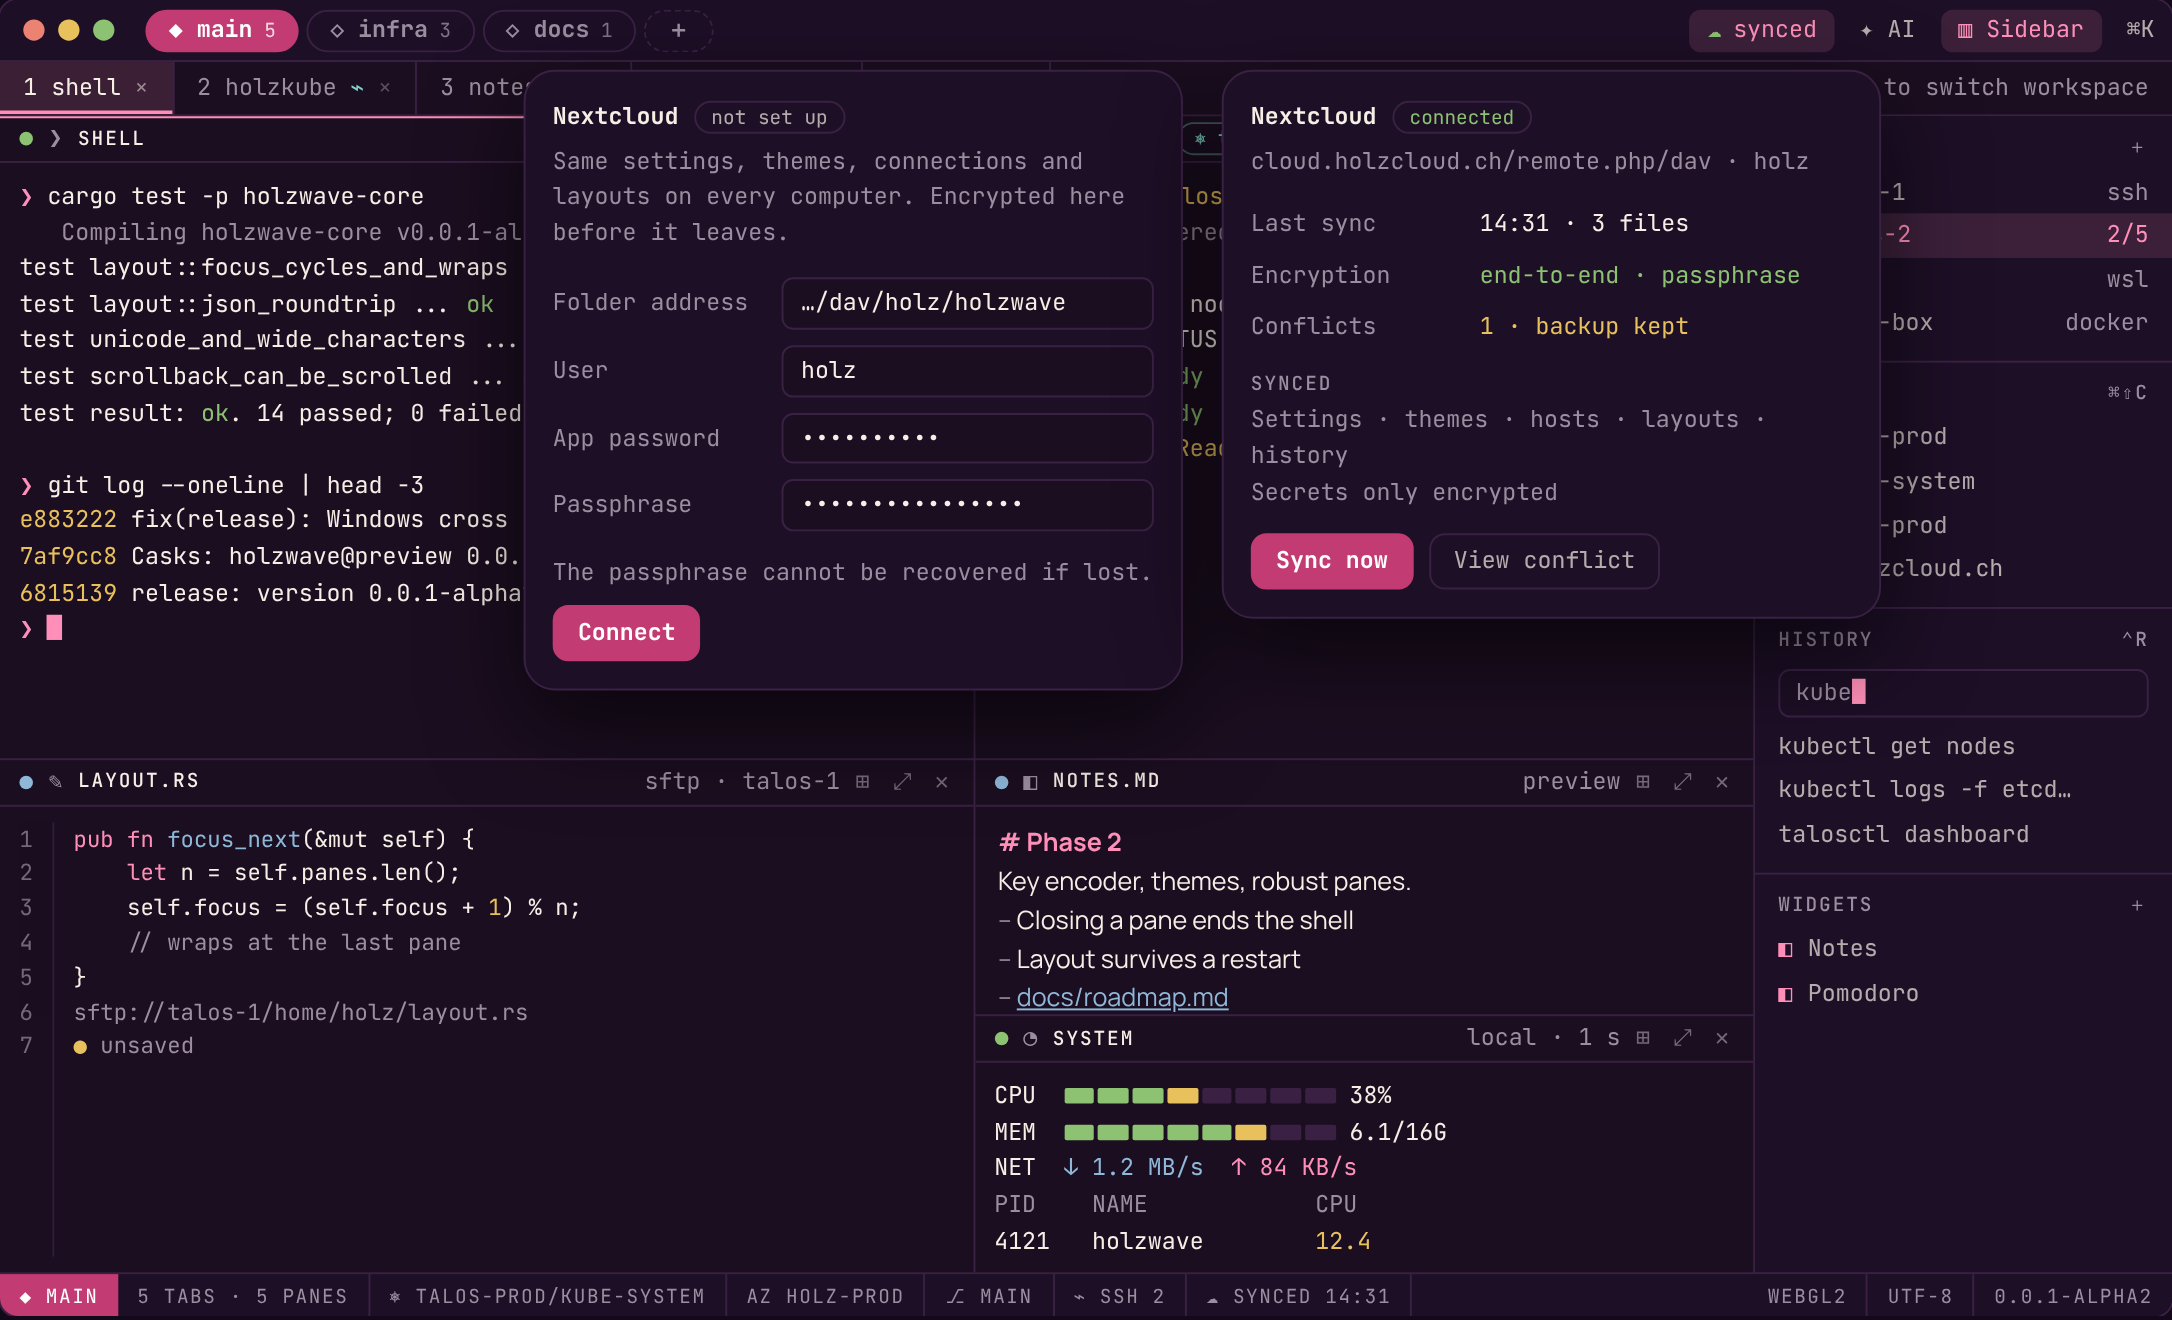
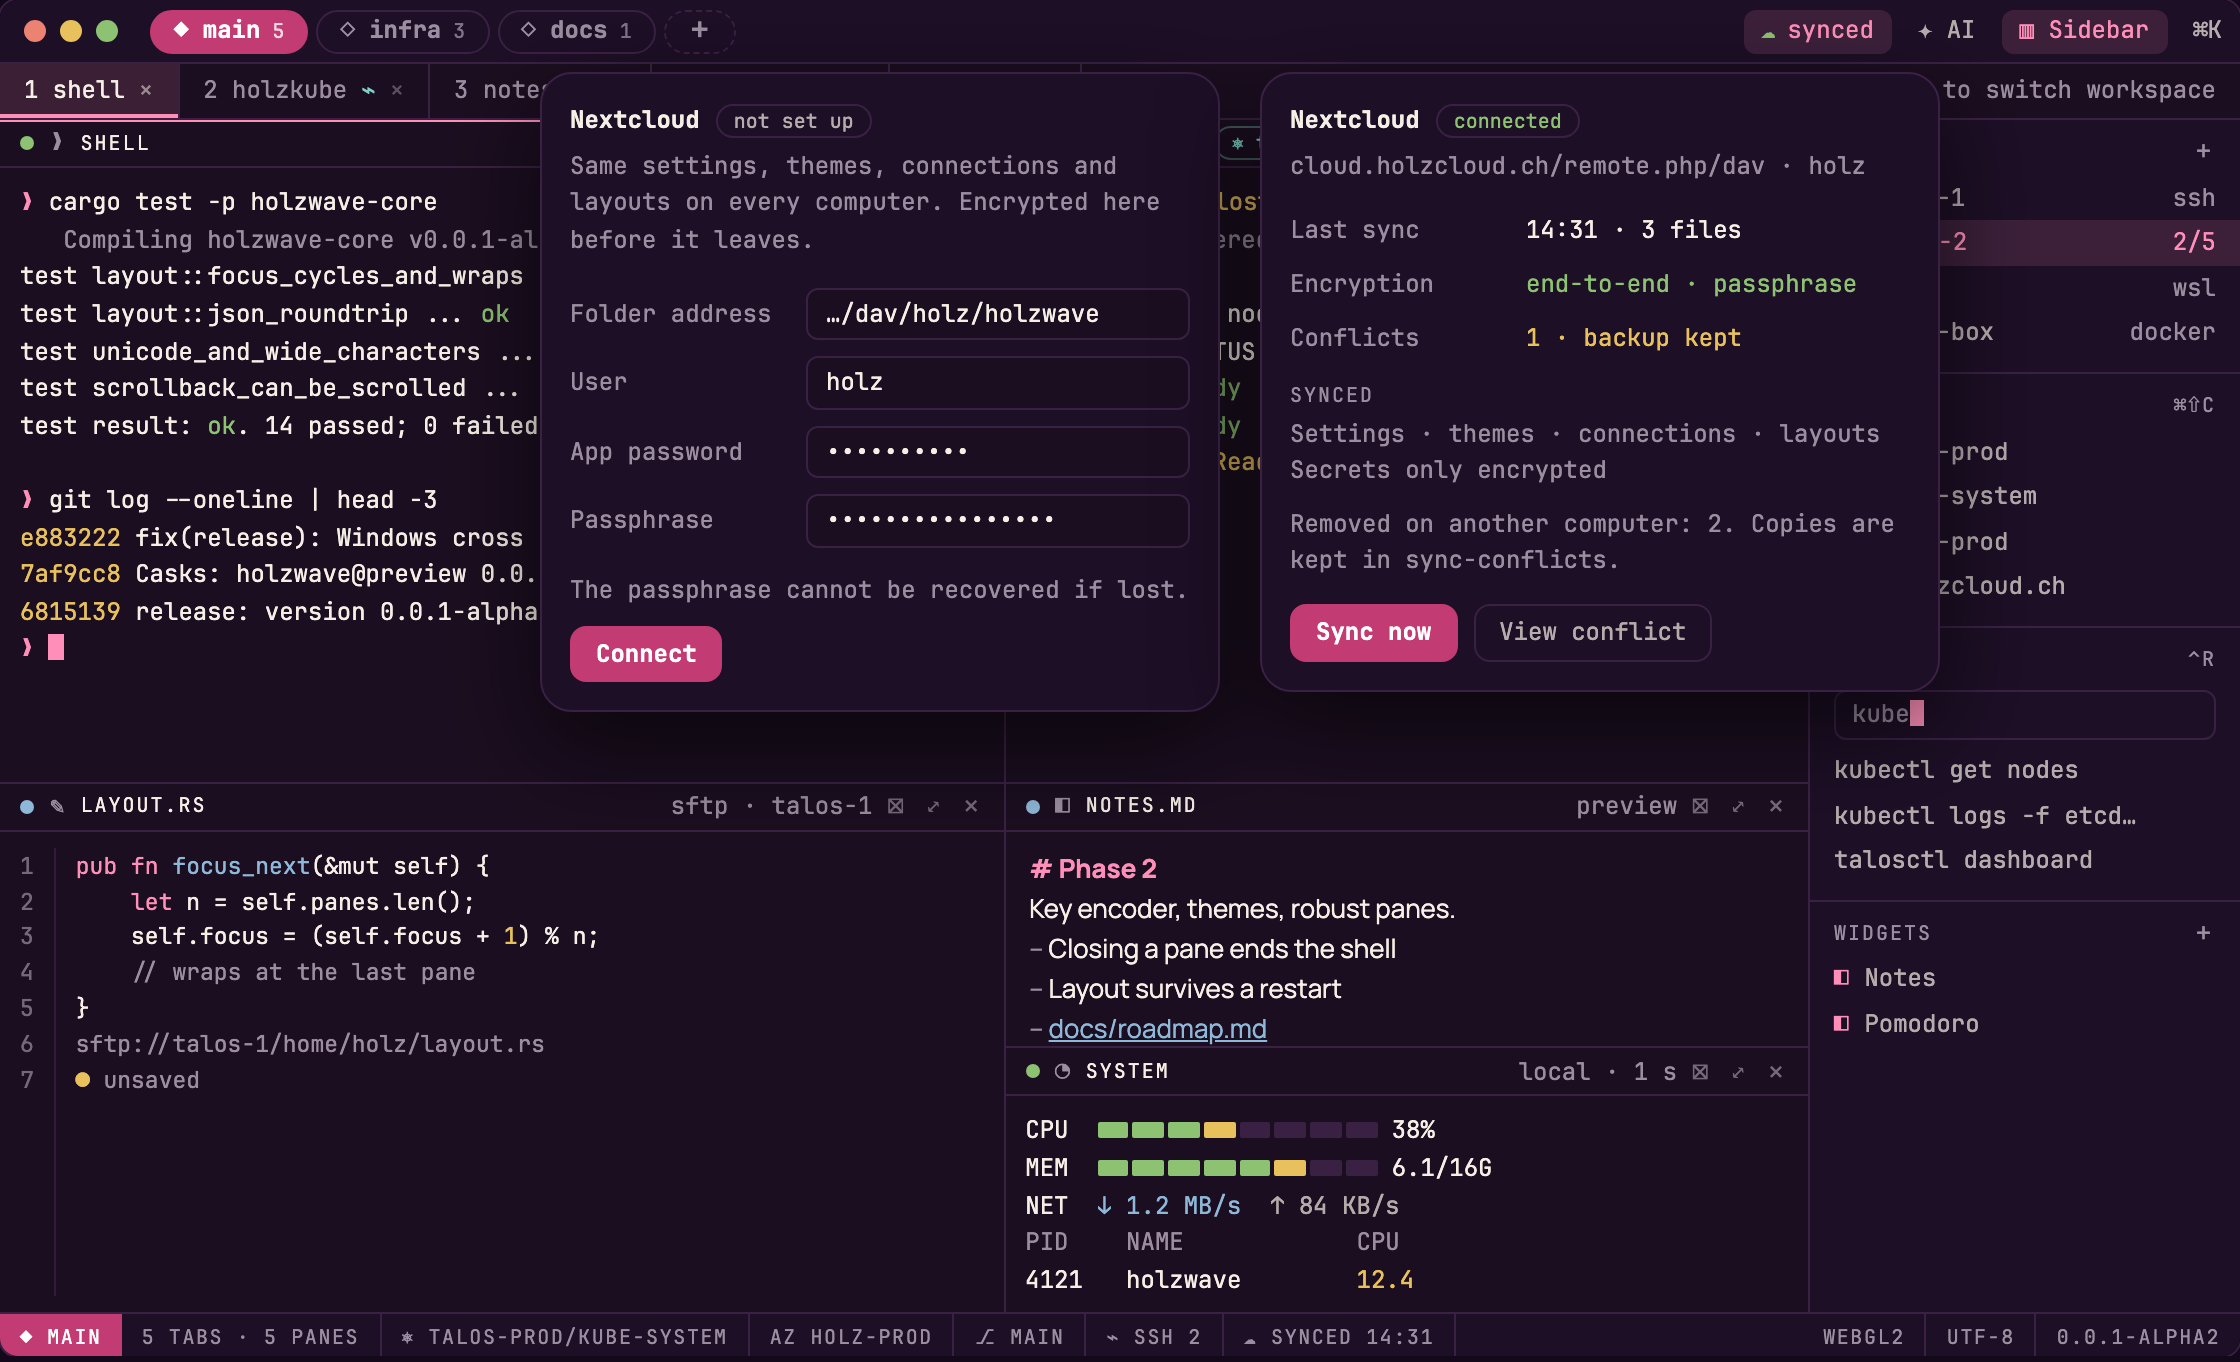
feat(06.1-11): the sync popover says how many files another computer removed
- the design record (6.9), the design page and docs/design/sync.png were updated together; only the sync view of the page changed
- SyncView.removed is the count of the last run; one dim line under the list, shown only above zero, words as its cue
- apply_synced reloads the registry after every run, so a removed theme leaves the settings list without a restart

Claude-Session: https://claude.ai/code/session_0131Y2UoT3m3QMiRtq78S4Lz

diff --git a/app/src/syncstate.ts b/app/src/syncstate.ts
@@ -15,10 +15,12 @@ export interface SyncStatus {
   error: string | null;
   /** Something was downloaded; it is applied at the next start. */
   restart: boolean;
+  /** How many files another computer removed in the last run (copies are kept in `sync-conflicts`). */
+  removed: number;
 }
 
 export const OFF: SyncStatus = {
-  configured: false, endpoint: "", user: "", state: "off", last: null, files: 0, conflicts: 0, error: null, restart: false,
+  configured: false, endpoint: "", user: "", state: "off", last: null, files: 0, conflicts: 0, error: null, restart: false, removed: 0,
 };
 
 const PHASES: ReadonlySet<string> = new Set(["off", "idle", "syncing", "error"]);
@@ -50,6 +52,7 @@ export function readSync(raw: unknown): SyncStatus {
     conflicts: count(o, "conflicts"),
     error,
     restart: o["restart"] === true,
+    removed: count(o, "removed"),
   };
 }
 
@@ -83,6 +86,11 @@ export function lastText(s: SyncStatus): string {
 /** "none", or "1 · the other version is kept". */
 export function conflictText(s: SyncStatus): string {
   return s.conflicts === 0 ? "none" : `${s.conflicts} · the other version is kept`;
+}
+
+/** The line under the list when another computer removed files in the last run; empty at zero. */
+export function removedText(s: SyncStatus): string {
+  return s.removed === 0 ? "" : `Removed on another computer: ${s.removed}. Copies are kept in sync-conflicts.`;
 }
 
 /** The host of the endpoint, for the line under the title; the whole address if it does not parse. */

diff --git a/docs/design/haarlinie-voll.html b/docs/design/haarlinie-voll.html
@@ -821,7 +821,8 @@ const ovl={
   <div class="ov float" style="right:150px;top:36px;width:340px;padding:14px;border-radius:16px"><div class="row" style="gap:8px"><b>Nextcloud</b><span class="chip" style="color:var(--ok)">connected</span></div>
   <div class="dim" style="margin:4px 0 10px">cloud.holzcloud.ch/remote.php/dav · holz</div>
   <div class="field"><span class="dim">Last sync</span><span>14:31 · 3 files</span></div><div class="field"><span class="dim">Encryption</span><span class="ok">end-to-end · passphrase</span></div><div class="field"><span class="dim">Conflicts</span><span class="wa">1 · backup kept</span></div>
-  <div class="grp lbl" style="padding:8px 0 2px">Synced</div><div class="dim">Settings · themes · hosts · layouts · history</div><div class="dim">Secrets only encrypted</div>
+  <div class="grp lbl" style="padding:8px 0 2px">Synced</div><div class="dim">Settings · themes · connections · layouts</div><div class="dim">Secrets only encrypted</div>
+  <div class="dim" style="margin-top:8px">Removed on another computer: 2. Copies are kept in sync-conflicts.</div>
   <div class="row" style="gap:8px;margin-top:12px"><span class="btn p">Sync now</span><span class="btn">View conflict</span></div></div>`,
  kiset:`<div class="scrim"></div><div class="ov float" style="left:220px;top:8px;width:680px;height:664px;overflow:hidden;border-radius:8px">${apBox('Saved.')}</div>`,
  keys:'KEYS',

diff --git a/app/src/sync.ts b/app/src/sync.ts
@@ -7,7 +7,7 @@ import { registerAction } from "./actions.js";
 import { call } from "./bridge.js";
 import { el, loadStyles, setText } from "./dom.js";
 import { pushKeyHandler } from "./keystack.js";
-import { OFF, clock, conflictText, endpointText, lastText, readSync, syncLabel } from "./syncstate.js";
+import { OFF, clock, conflictText, endpointText, lastText, readSync, removedText, syncLabel } from "./syncstate.js";
 import type { SyncStatus } from "./syncstate.js";
 
 let status: SyncStatus = OFF;
@@ -170,6 +170,8 @@ function configured(box: HTMLElement, _note: HTMLElement, _render: (m?: string, 
   el("p", "label sy-group", box).textContent = "Synced";
   el("p", "sy-sub", box).textContent = "Settings · themes · connections · layouts";
   el("p", "sy-sub", box).textContent = "Secrets only inside the encrypted files";
+  const removed = removedText(status);
+  if (removed !== "") el("p", "sy-sub sy-removed", box).textContent = removed;
   if (status.restart) el("p", "sy-restart", box).textContent = "Changes from another computer arrived. They apply at the next start.";
 }
 

diff --git a/app/src-tauri/src/state.rs b/app/src-tauri/src/state.rs
@@ -1129,9 +1129,9 @@ impl AppCore {
     /// Move what the last sync run downloaded into place, for the files the running app does not own: the themes, the
     /// widgets and the texts of the notes. The layout, the settings and the connections stay staged until the next
     /// start, because the app rewrites them from memory. A live file the person edited after the download was staged is
-    /// copied to `sync-conflicts/` first. The notes lock is held for the move only; when a theme arrived, the registry is
-    /// reloaded after it is released, which announces `settings` to every window. Blocks on small files: not on the main
-    /// thread.
+    /// copied to `sync-conflicts/` first. The notes lock is held for the move only; the registry is reloaded after it is
+    /// released (a theme may have arrived or been removed), which announces `settings` to every window when it changed.
+    /// Blocks on small files: not on the main thread.
     pub fn apply_synced(&self) -> holzwave_core::sync::engine::Promoted {
         use holzwave_core::sync::engine::{is_unowned, promote_where};
         let promoted = {
@@ -1141,9 +1141,9 @@ impl AppCore {
         if !promoted.applied.is_empty() {
             eprintln!("holzwave: applied from sync: {}", promoted.applied.join(", "));
         }
-        if promoted.applied.iter().any(|name| name.starts_with("themes/")) {
-            self.reload_settings();
-        }
+        // Every time: the run may also have removed a theme, which nothing here staged. A reload compares sizes and
+        // modification times and does nothing when nothing changed.
+        self.reload_settings();
         promoted
     }
 
@@ -5359,6 +5359,28 @@ mod tests {
         assert!(dir.0.join("sync-incoming").join("settings.json").is_file(), "settings.json still waits for a start");
         assert!(!dir.0.join("settings.json").exists());
         assert_ne!(core.get_settings().settings.font_size, 31, "the settings in force are not touched");
+    }
+
+    #[test]
+    fn an_apply_after_a_run_reloads_the_themes_even_when_none_was_downloaded() {
+        let (core, rec, dir) = core("/bin/cat", &[]);
+        staged(&dir, "themes/mine.json", theme_json("mine").as_bytes());
+        core.apply_synced();
+        assert!(core.get_settings().themes.iter().any(|t| t.name == "mine"));
+        let before = rec.settings_events().len();
+
+        // A run that changed nothing announces nothing.
+        core.apply_synced();
+        assert_eq!(rec.settings_events().len(), before, "nothing changed, nothing announced");
+
+        // A deletion by the sync removed the live file: nothing is staged, and the list still follows, once.
+        std::fs::remove_file(dir.0.join("themes").join("mine.json")).unwrap();
+        let promoted = core.apply_synced();
+        assert!(promoted.applied.is_empty());
+        let events = rec.settings_events();
+        assert_eq!(events.len(), before + 1, "announced once");
+        assert!(events.last().unwrap().themes.iter().all(|t| t.name != "mine"), "the theme list no longer holds it");
+        assert!(core.get_settings().themes.iter().all(|t| t.name != "mine"));
     }
 
     #[test]

diff --git a/app/src-tauri/src/sync.rs b/app/src-tauri/src/sync.rs
@@ -45,6 +45,8 @@ pub struct SyncView {
     /// A downloaded file still waits for the next start (the files the running app owns, or one that could not be
     /// applied at once).
     pub restart: bool,
+    /// Files another computer removed in the last run (a copy of each is kept in `sync-conflicts`).
+    pub removed: usize,
 }
 
 fn now() -> i64 {
@@ -211,6 +213,7 @@ impl SyncRuntime {
             v.last = Some(now());
             v.files = report.uploaded.len() + report.downloaded.len();
             v.conflicts = report.conflicts.len() + promoted.kept.len();
+            v.removed = report.removed.len();
             v.restart |= report.downloaded.iter().any(|name| !is_unowned(name)) || !promoted.skipped.is_empty();
             v.error = report.errors.first().map(|(name, why)| format!("{name}: {why}"));
             if v.error.is_some() {
@@ -325,6 +328,19 @@ mod tests {
         // The flag stays set until the process ends, as before.
         let view = rt.complete(&report(&[], &["themes/mine.json"], &[]));
         assert!(view.restart);
+    }
+
+    #[test]
+    fn the_view_counts_what_another_computer_removed() {
+        let (rt, _calls, _dir) = applying("rm", Promoted::default());
+        let gone = Report { removed: vec!["themes/a.json".into(), "widgets/b.json".into()], ..Report::default() };
+        assert_eq!(rt.complete(&gone).removed, 2);
+        // The count is of the last run, not a running total.
+        assert_eq!(rt.complete(&Report::default()).removed, 0);
+        let one = Report { removed: vec!["themes/a.json".into()], ..Report::default() };
+        assert_eq!(rt.complete(&one).removed, 1);
+        assert_eq!(rt.complete(&one).removed, 1, "not cumulative");
+        assert_eq!(rt.off().removed, 0, "turned off: nothing to say");
     }
 
     #[test]

diff --git a/docs/design.md b/docs/design.md
@@ -378,7 +378,11 @@ popover under it (a floating layer, 24 rem wide), and so do the palette entries 
 - **Connected:** title `Nextcloud` with a chip (`connected`, `syncing`, `error`), the address and user, then the rows
   `Last sync` (`14:31 · 3 files`), `Encryption` (`end-to-end · passphrase`) and `Conflicts` (`none`, or the count and that
   the other version is kept), the list of what is synced, a line when changes from another computer wait for the next
-  start, and the buttons `Close`, `Turn off` (asks with a second click) and `Sync now`.
+  start, and the buttons `Close`, `Turn off` (asks with a second click) and `Sync now`. When another computer removed
+  files in the last run (a theme or a widget it deleted), one line sits under the list of what is synced, in the dim
+  colour of the other notes of the popover: `Removed on another computer: 2. Copies are kept in sync-conflicts.` It is
+  shown only while the count is above zero, is the count of the last run and not a running total, and its cue is its
+  words.
 
 ### 6.10 History
 
